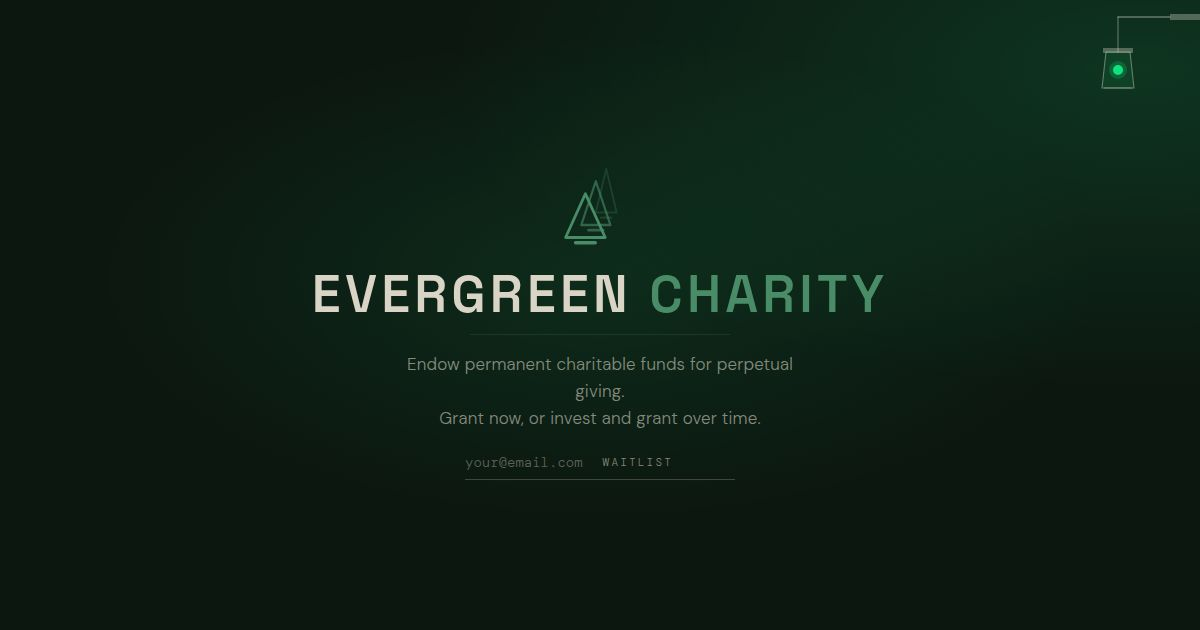
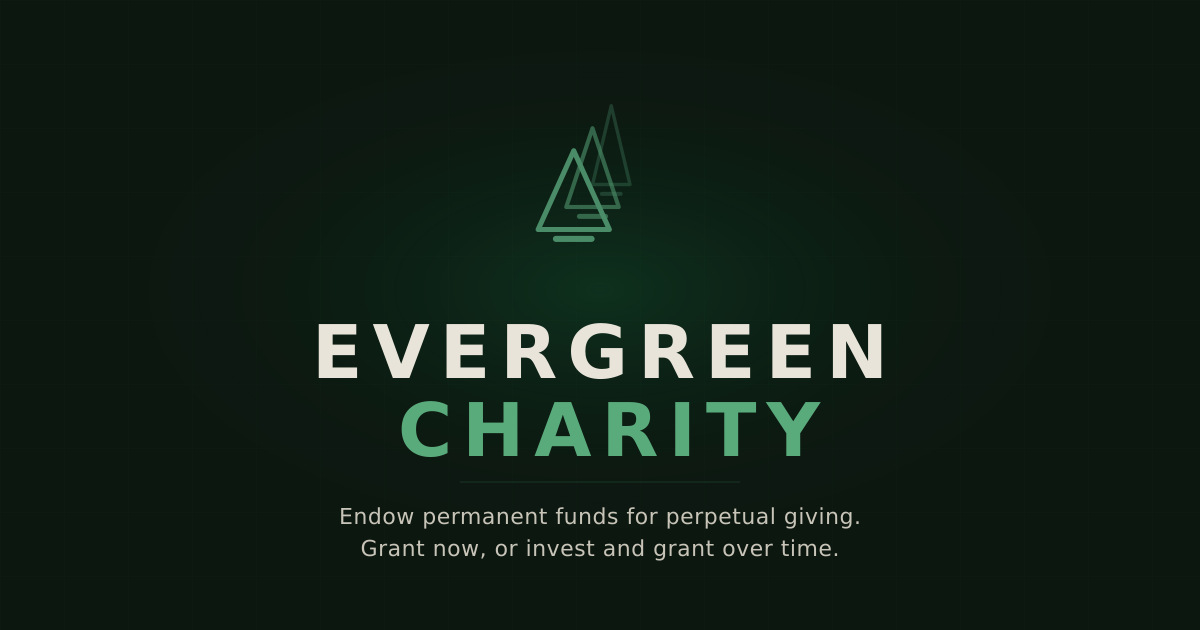
feat: remove waitlist form, fix mobile description, update og card

diff --git a/artifacts/evergreen-charity/src/App.tsx b/artifacts/evergreen-charity/src/App.tsx
@@ -1,4 +1,3 @@
-import { useState } from 'react';
 import { motion } from 'framer-motion';
 
 // ─── Mark ─────────────────────────────────────────────────────────────────────
@@ -69,10 +68,6 @@ function ForestMark({ size = 36 }: { size?: number }) {
 // ─── App ──────────────────────────────────────────────────────────────────────
 
 export default function App() {
-  const [email, setEmail] = useState('');
-  const [submitted, setSubmitted] = useState(false);
-  const [submitting, setSubmitting] = useState(false);
-
   return (
     <div className="h-[100dvh] w-full overflow-hidden bg-background text-foreground flex flex-col relative">
 
@@ -177,55 +172,12 @@ export default function App() {
         <motion.p
           initial={{ opacity: 0, y: 6 }} animate={{ opacity: 1, y: 0 }}
           transition={{ duration: 0.6, delay: 1.85 }}
-          className="mt-3 max-w-[500px] text-[0.97rem] md:text-[1.08rem] leading-relaxed"
+          className="mt-3 max-w-[500px] text-[0.9rem] md:text-[1.08rem] leading-relaxed"
           style={{ fontFamily: "'DM Sans', sans-serif", fontWeight: 300, color: 'hsl(var(--foreground) / 0.6)', letterSpacing: '0.01em' }}
         >
-          Endow permanent charitable funds for perpetual giving.<br />
+          Endow permanent funds for perpetual giving.<br />
           Grant now, or invest and grant over time.
         </motion.p>
-
-        {/* Email */}
-        <motion.div
-          initial={{ opacity: 0, y: 6 }} animate={{ opacity: 1, y: 0 }}
-          transition={{ duration: 0.5, delay: 1.95 }}
-          className="mt-5 w-full max-w-[270px]"
-        >
-          {submitted ? (
-            <motion.p initial={{ opacity: 0 }} animate={{ opacity: 1 }}
-              className="font-mono text-[0.6rem] tracking-[0.25em] uppercase text-primary/70 py-3 border-b border-primary/20">
-              We'll be in touch.
-            </motion.p>
-          ) : (
-            <form
-              onSubmit={async (e) => {
-                e.preventDefault();
-                if (!email) return;
-                setSubmitting(true);
-                try {
-                  await fetch('https://formspree.io/f/mrpzabwq', {
-                    method: 'POST',
-                    headers: { 'Content-Type': 'application/json', Accept: 'application/json' },
-                    body: JSON.stringify({ email }),
-                  });
-                } finally {
-                  setSubmitting(false);
-                  setSubmitted(true);
-                }
-              }}
-              className="flex border-b border-border/50 focus-within:border-primary/50 transition-colors duration-500 pb-1 select-text">
-              <input type="email" value={email} onChange={e => setEmail(e.target.value)}
-                placeholder="your@email.com"
-                required
-                style={{ fontFamily: "'DM Mono', monospace", fontWeight: 300 }}
-                className="flex-1 bg-transparent py-2.5 text-[0.95rem] outline-none placeholder:text-foreground/50 text-foreground tracking-wide" />
-              <button type="submit" disabled={submitting}
-                style={{ fontFamily: "'DM Mono', monospace", fontWeight: 300 }}
-                className="pl-5 text-[0.65rem] tracking-[0.2em] uppercase text-foreground/75 hover:text-primary transition-colors duration-300 disabled:opacity-40">
-                {submitting ? '...' : 'Waitlist'}
-              </button>
-            </form>
-          )}
-        </motion.div>
 
       </main>
 
